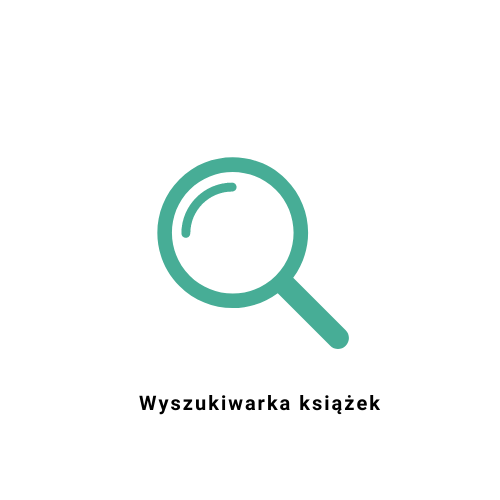
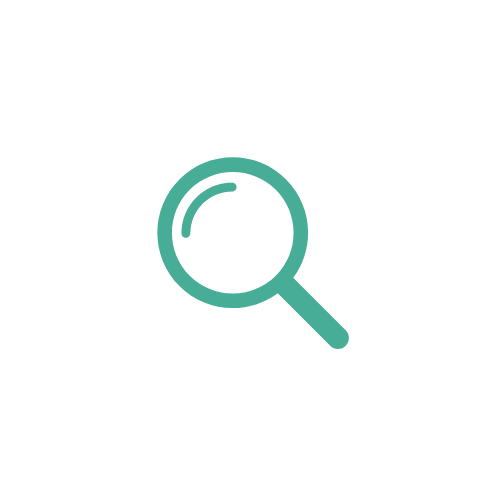
Html changes

Changed region(s): [[0.27, 0.78, 0.75, 0.84]]

diff --git a/src/main/resources/templates/edit_book.html b/src/main/resources/templates/edit_book.html
@@ -1,38 +1,33 @@
 <!DOCTYPE html>
-<html xmlns:th="http://www.thymeleaf.org" lang="en">
+<html xmlns:th="http://www.thymeleaf.org" lang="pl">
 <head>
-    <link rel="stylesheet" type="text/css" href="/webjars/bootstrap/css/bootstrap.min.css"/>
     <meta charset="UTF-8">
-    <title>eLibrary register page</title>
+    <title>Edit book</title>
+    <link rel="stylesheet" th:href="@{styles/style-edit_book.css}" type="text/css">
+    <link rel="preconnect" href="https://fonts.googleapis.com">
+    <link rel="preconnect" href="https://fonts.gstatic.com" crossorigin>
+    <link href="https://fonts.googleapis.com/css2?family=Roboto:wght@100;400&display=swap" rel="stylesheet">
 </head>
-
 <body>
-
-<div class="container text-center">
-    <h1>Edycja książki</h1>
-    <form th:action="@{/process_edit_book}" method="post"
-          style="max-width: 600px; margin: 0 auto;"
-          th:object="${book}"
-
-    >
-        <div class="m-3">
-            <div class="form-group row">
-                <div class="form-group row">
+<header>
+    <img class="logo" th:src="@{/images/logo_tlo.png}" alt="logo"/>
+</header>
+<div class="content">
+    <div class="main">
+        <h1>Edycja książki</h1>
+         <form th:action="@{/process_edit_book}" method="post" style="max-width: 600px; margin: 0 auto;" th:object="${book}">
                     <label class="col-form-label col-4">ID książki</label>
                     <div class="col-8">
                         <input type="text" class="form-control" th:field="*{id}" readonly = "readonly"/>
                     </div>
-                </div>
                 <label class="col-form-label col-4">Tytuł</label>
                 <div class="col-8">
                     <input type="text" class="form-control" th:field="*{title}" required/>
                 </div>
-            </div>
             <div class="form-group row">
                 <label class="col-form-label col-4">Autor</label>
                 <div class="col-8">
-                    <input type="text" class="form-control" th:field="*{author}" required minlength="8"
-                           maxlength="64"/>
+                    <input type="text" class="form-control" th:field="*{author}" required minlength="8" maxlength="64"/>
                 </div>
             </div>
             <div class="form-group row">
@@ -42,13 +37,14 @@
                            maxlength="35"/>
                 </div>
             </div>
-            <div>
                 <button type="submit" class="btn btn-primary">Zapisz</button>
-            </div>
-        </div>
-
     </form>
-
 </div>
+</div>
+<footer>
+        <p>Biblioteka PJATK GDAŃSK</p>
+        <p>93-540 GDAŃSK ul. Brzegi 55 </p>
+        <p>Michał Czerwiak, Bartosz Kamiński, Katarzyna Węsierska</p>
+</footer>
 </body>
 </html>

diff --git a/src/main/resources/templates/index.html b/src/main/resources/templates/index.html
@@ -12,7 +12,9 @@
 <header>
     <img class="logo" th:src="@{images/logo_tlo.png}" alt="logo"/>
     <div class="login">
-        <a th:href="@{login}"><img class="login_photo" th:src="@{../images/login_photo_text.png}" alt="Zaloguj się"/></a>
+        <a th:href="@{login}"><img class="login_photo" th:src="@{../images/login.png}" alt="Zaloguj się"/>
+            <span class="text_login">Zaloguj się</span>
+        </a>
     </div>
 </header>
 
@@ -21,11 +23,12 @@
 
     <div class="folder">
         <div class="search">
-            <a th:href="@{/search_book_unlogged}"><img class="search_photo" th:src="@{../images/search.png}" alt="Wyszukiwarka książek"/></a>
+            <a th:href="@{/search_book_unlogged}"><img class="search_photo" th:src="@{../images/search.png}" alt="Wyszukiwarka książek"/><h2>Wyszukiwarka</h2>
+            </a>
         </div>
     </div>
     <div class="main">
-        <h1>Witaj w eBiliotece! Oto nasze najnowsze pozycje.</h1>
+        <h1>Witaj w eBibliotece! Oto nasze najnowsze pozycje.</h1>
         <table>
                 <thead class="headline">
                 <tr>

diff --git a/src/main/resources/templates/add_book.html b/src/main/resources/templates/add_book.html
@@ -21,13 +21,13 @@
             <div class="form-group row">
                 <label class="col-form-label col-4">Tytuł</label>
                 <div class="col-8">
-                    <input type="text" class="form-control" th:field="*{title}" required/>
+                    <input type="text" class="form-control" th:field="*{title}"  required minlength="2"/>
                 </div>
             </div>
             <div class="form-group row">
                 <label class="col-form-label col-4">Autor</label>
                 <div class="col-8">
-                    <input type="text" class="form-control" th:field="*{author}" required minlength="8"
+                    <input type="text" class="form-control" th:field="*{author}" required minlength="2"
                            maxlength="64"/>
                 </div>
             </div>

diff --git a/src/main/resources/static/styles/style-index.css b/src/main/resources/static/styles/style-index.css
@@ -16,14 +16,17 @@ header {
 }
 .login 
 {
-    display: flex; 
-    justify-content: flex-end;
-    text-align: right;
-    align-items: center;
+    display: flex;
 }
-
+.text-login {
+    font-family: 'Roboto';
+    font-size: 0.5em;
+    margin-right: 50px;
+    text-decoration: none;
+}
 .login_photo{
     width:35%;
+    margin-left: 40%;
 }
 .login_format {
     height: 10%;
@@ -78,8 +81,7 @@ p {
     height: 400px;
 }
 .search {
-    padding: 5%;
-    display: block;
+    display: flex;
 }
 .search_photo{
     width: 100%;

diff --git a/src/main/resources/templates/error.html b/src/main/resources/templates/error.html
@@ -14,7 +14,7 @@
 </header>
 <div class="content">
     <div class="main">
-        <h1>Ups. Coś poszło nie tak</h1>
+        <h1>Ups.. Coś poszło nie tak</h1>
     </div>
     <h3><a th:href="@{/console}">Home</a></h3>
 </div>
